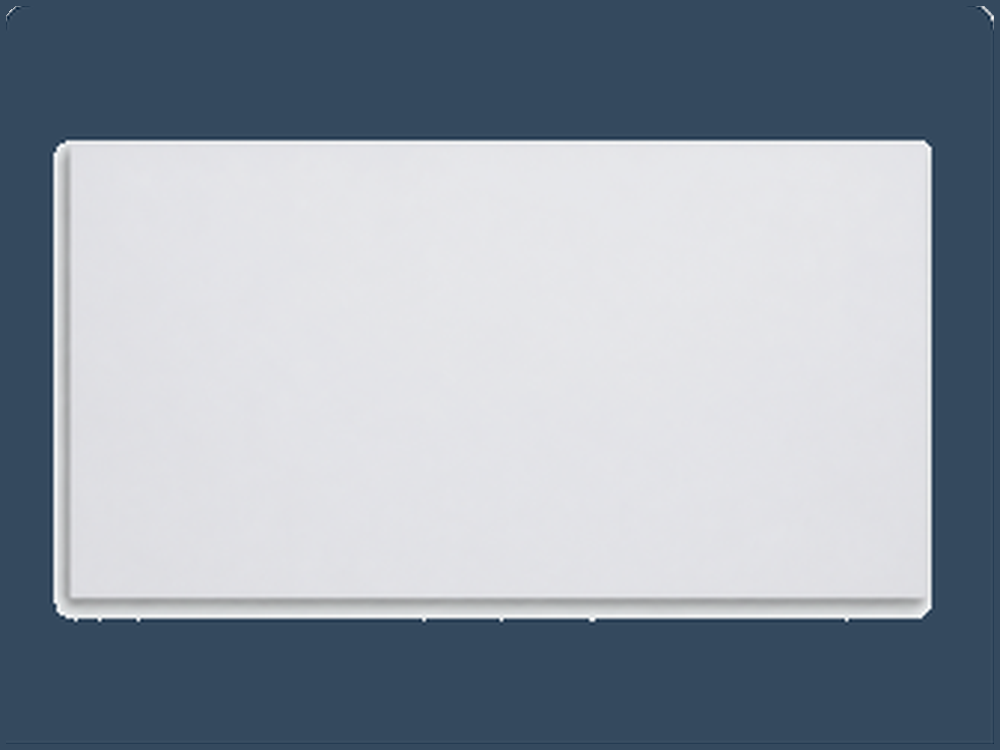
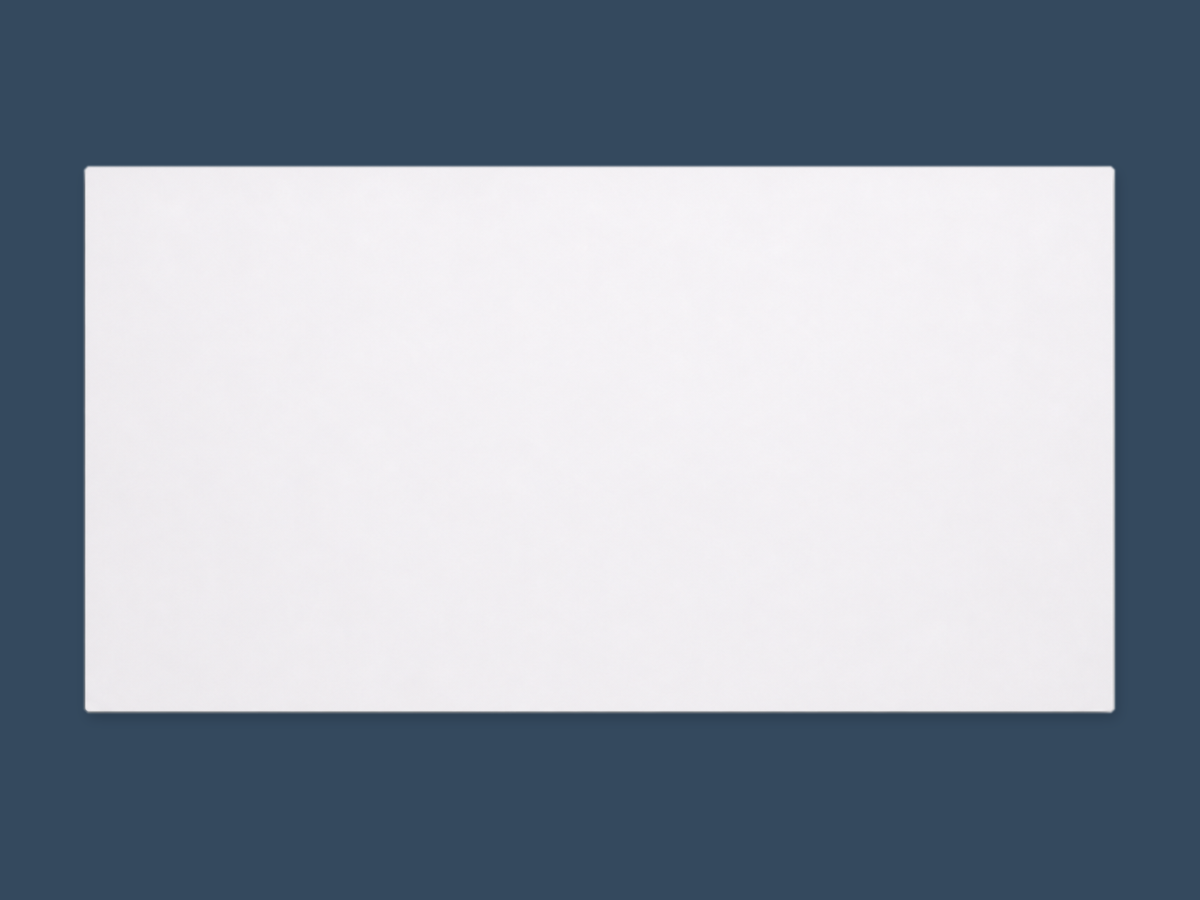
배수판 카드 이미지 테두리 정리

diff --git a/wall.html b/wall.html
@@ -97,7 +97,7 @@
         <div class="photoGrid">
           <div class="photoCard">
             <div class="productPhoto">
-              <img src="assets/products/pvc-round-navy-card.png" alt="TM 원형 배수판 — 가로 600 mm, 세로 300 mm" width="1000" height="750" loading="lazy" decoding="async" />
+              <img src="assets/products/pvc-round-navy-card.png?v=20260914b" alt="TM 원형 배수판 — 가로 600 mm, 세로 300 mm" width="1200" height="900" loading="lazy" decoding="async" />
             </div>
             <div class="photoMeta">
               <b>TM 원형 배수판</b>
@@ -107,7 +107,7 @@
 
           <div class="photoCard">
             <div class="productPhoto">
-              <img src="assets/products/pvc-square-navy-card.png" alt="TM 사각 배수판 — 가로 600 mm, 세로 300 mm" width="1000" height="750" loading="lazy" decoding="async" />
+              <img src="assets/products/pvc-square-navy-card.png?v=20260914b" alt="TM 사각 배수판 — 가로 600 mm, 세로 300 mm" width="1200" height="900" loading="lazy" decoding="async" />
             </div>
             <div class="photoMeta">
               <b>TM 사각 배수판</b>
@@ -117,7 +117,7 @@
 
           <div class="photoCard">
             <div class="productPhoto">
-              <img src="assets/products/pvc-flat-navy-card.png" alt="TM 평판 배수판 — 가로 600 mm, 세로 300 mm" width="1000" height="750" loading="lazy" decoding="async" />
+              <img src="assets/products/pvc-flat-navy-card.png?v=20260914b" alt="TM 평판 배수판 — 가로 600 mm, 세로 300 mm" width="1200" height="900" loading="lazy" decoding="async" />
             </div>
             <div class="photoMeta">
               <b>TM 평판 배수판</b>

diff --git a/styles.css b/styles.css
@@ -1273,6 +1273,11 @@ footer a {
 }
 
 /* PVC lineup: navy photo areas provide contrast for the white products. */
+#pvc-wall .photoCard {
+  isolation: isolate;
+  clip-path: inset(0 round 16px);
+}
+
 #pvc-wall .productPhoto,
 #pvc-wall .photoPlaceholder {
   width: 100%;
